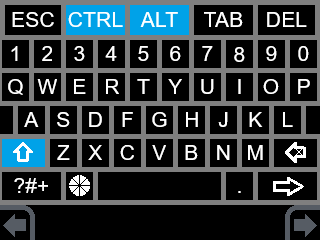
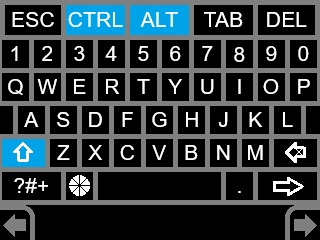
Fix screen glitch on app exit Use rgb565 format for the bottom screen images Remove extra gfx exit/init calls Modify image colors to improve rgb565 visibility Centralize double buffering disable Add replace imagemagick with ffmpeg for rgb conversion

Changed region(s): [[0.875, 0.8458, 1.0, 1.0], [0.0, 0.8458, 0.125, 1.0]]

diff --git a/src/n3ds_main.cpp b/src/n3ds_main.cpp
@@ -336,7 +336,10 @@ static void prompt_for_stream_settings(PCONFIGURATION config) {
 static void init_3ds() {
     Result status = 0;
     acInit();
-    gfxInit(GSP_RGB565_OES, GSP_BGR8_OES, false);
+    gfxInit(GSP_RGB565_OES, GSP_RGB565_OES, false);
+    gfxSetDoubleBuffering(GFX_TOP, false);
+    gfxSetDoubleBuffering(GFX_BOTTOM, false);
+
     consoleInit(GFX_TOP, &topScreen);
     consoleSelect(&topScreen);
     atexit(n3ds_exit_handler);
@@ -555,13 +558,9 @@ int main_loop(int argc, char *argv[]) {
                     consoleInit(GFX_BOTTOM, &bottomScreen);
                     consoleSelect(&bottomScreen);
                 } else if (config.display_type == RENDER_DUAL_SCREEN_STRETCH) {
-                    gfxExit();
-                    gfxInit(GSP_RGB565_OES, GSP_RGB565_OES, false);
                     touch_type = DS_TOUCH;
                 } else if (config.display_type == RENDER_BOTTOM ||
                            config.display_type == RENDER_DUAL_SCREEN_MIRROR) {
-                    gfxExit();
-                    gfxInit(GSP_RGB565_OES, GSP_RGB565_OES, false);
                     touch_type = ABSOLUTE_TOUCH;
                 } else {
                     touch_type = GAMEPAD;

diff --git a/src/video/n3ds/N3dsRendererBase.cpp b/src/video/n3ds/N3dsRendererBase.cpp
@@ -44,13 +44,10 @@ N3dsRendererBase::~N3dsRendererBase() {
     linearFree(cmdlist);
     vramFree(vramFb);
     vramFree(vramTex);
-    // Return to the default display width before exiting
-    if (surface_width == GSP_SCREEN_HEIGHT_TOP_2X) {
-        gfxSetWide(false);
-    }
+
     // Clear both screens
     u8 *top = gfxGetFramebuffer(GFX_TOP, GFX_LEFT, NULL, NULL);
-    memset(top, 0, GSP_SCREEN_HEIGHT_TOP * GSP_SCREEN_WIDTH * px_size);
+    memset(top, 0, surface_width * GSP_SCREEN_WIDTH * px_size);
     gfxScreenSwapBuffers(GFX_TOP, true);
 
     GSPGPU_FramebufferFormat px_fmt_btm = gfxGetScreenFormat(GFX_BOTTOM);
@@ -59,6 +56,10 @@ N3dsRendererBase::~N3dsRendererBase() {
     memset(btm, 0, GSP_SCREEN_HEIGHT_BOTTOM * GSP_SCREEN_WIDTH * px_size_btm);
     gfxScreenSwapBuffers(GFX_BOTTOM, true);
 
+    // Return to the default display width before exiting
+    if (surface_width == GSP_SCREEN_HEIGHT_TOP_2X) {
+        gfxSetWide(false);
+    }
     printf("Closing stream...");
 }
 

diff --git a/src/input/n3ds/KeyboardTouchHandler.cpp b/src/input/n3ds/KeyboardTouchHandler.cpp
@@ -26,10 +26,12 @@
 #include <Limelight.h>
 #include <cstring>
 
-const static int KEY_PX_SIZE = 3;
-
 KeyboardTouchHandler::KeyboardTouchHandler()
     : selected_keycodes(&default_keycodes) {
+
+    GSPGPU_FramebufferFormat px_fmt_btm = gfxGetScreenFormat(GFX_BOTTOM);
+    key_px_size = gspGetBytesPerPixel(px_fmt_btm);
+
     handle_default();
 }
 
@@ -64,8 +66,8 @@ void KeyboardTouchHandler::set_screen_key(KeyInfo &key_info) {
     for (int x = key_info.min_x; x < key_info.max_x; x++) {
         int bgr_offset =
             ((GSP_SCREEN_WIDTH * x) + (GSP_SCREEN_WIDTH - key_info.max_y)) *
-            KEY_PX_SIZE;
-        int bgr_size = (key_info.max_y - key_info.min_y) * KEY_PX_SIZE;
+            key_px_size;
+        int bgr_size = (key_info.max_y - key_info.min_y) * key_px_size;
         memcpy(gfxbtmadr + bgr_offset, bgr_buffer + bgr_offset, bgr_size);
     }
 

diff --git a/src/input/n3ds/GamepadTouchHandler.cpp b/src/input/n3ds/GamepadTouchHandler.cpp
@@ -24,7 +24,6 @@
 
 GamepadTouchHandler::GamepadTouchHandler(GAMEPAD_STATE *gamepad_in)
     : gamepad_state(gamepad_in) {
-    gfxSetDoubleBuffering(GFX_BOTTOM, false);
     u8 *gfxbtmadr = gfxGetFramebuffer(GFX_BOTTOM, GFX_LEFT, NULL, NULL);
 
     memcpy(gfxbtmadr, gamepad_bgr, gamepad_bgr_size);

diff --git a/src/input/n3ds/N3dsTouchscreenInput.hpp b/src/input/n3ds/N3dsTouchscreenInput.hpp
@@ -111,6 +111,7 @@ class KeyboardTouchHandler : public TouchHandlerBase {
     int get_key_mod();
 
   private:
+    int key_px_size;
     keycode_info active_keycode{-1, false};
     KeyInfo shift_info = {KEY_DISABLED, 0, 48, 136, 169};
     KeyInfo ctrl_info = {KEY_DISABLED, 64, 127, 0, 37};
